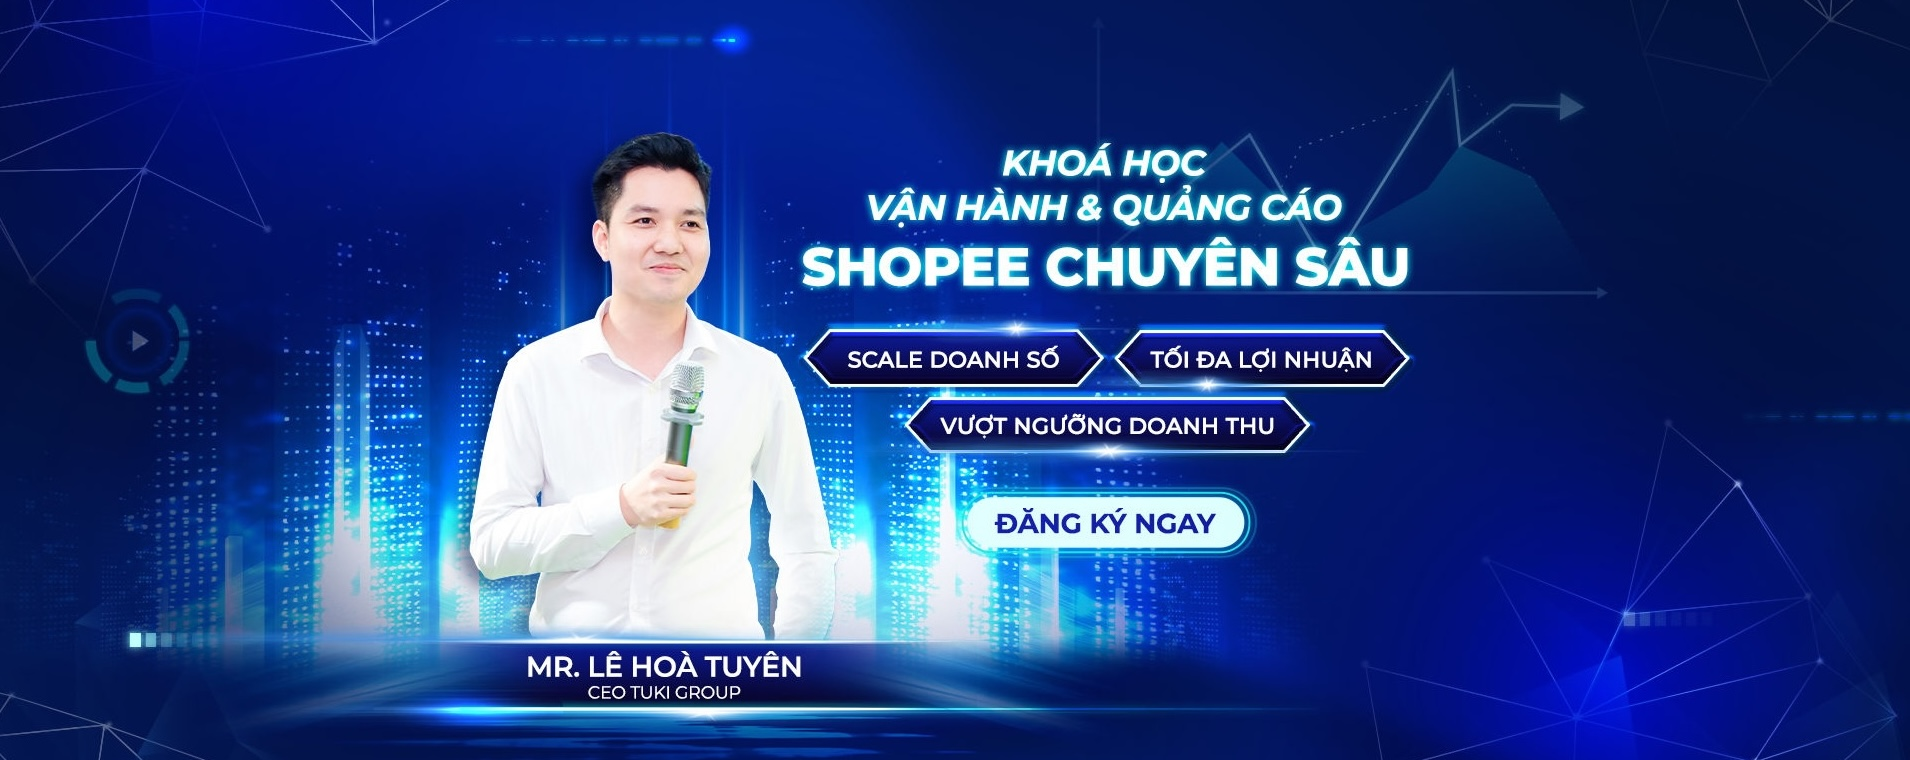
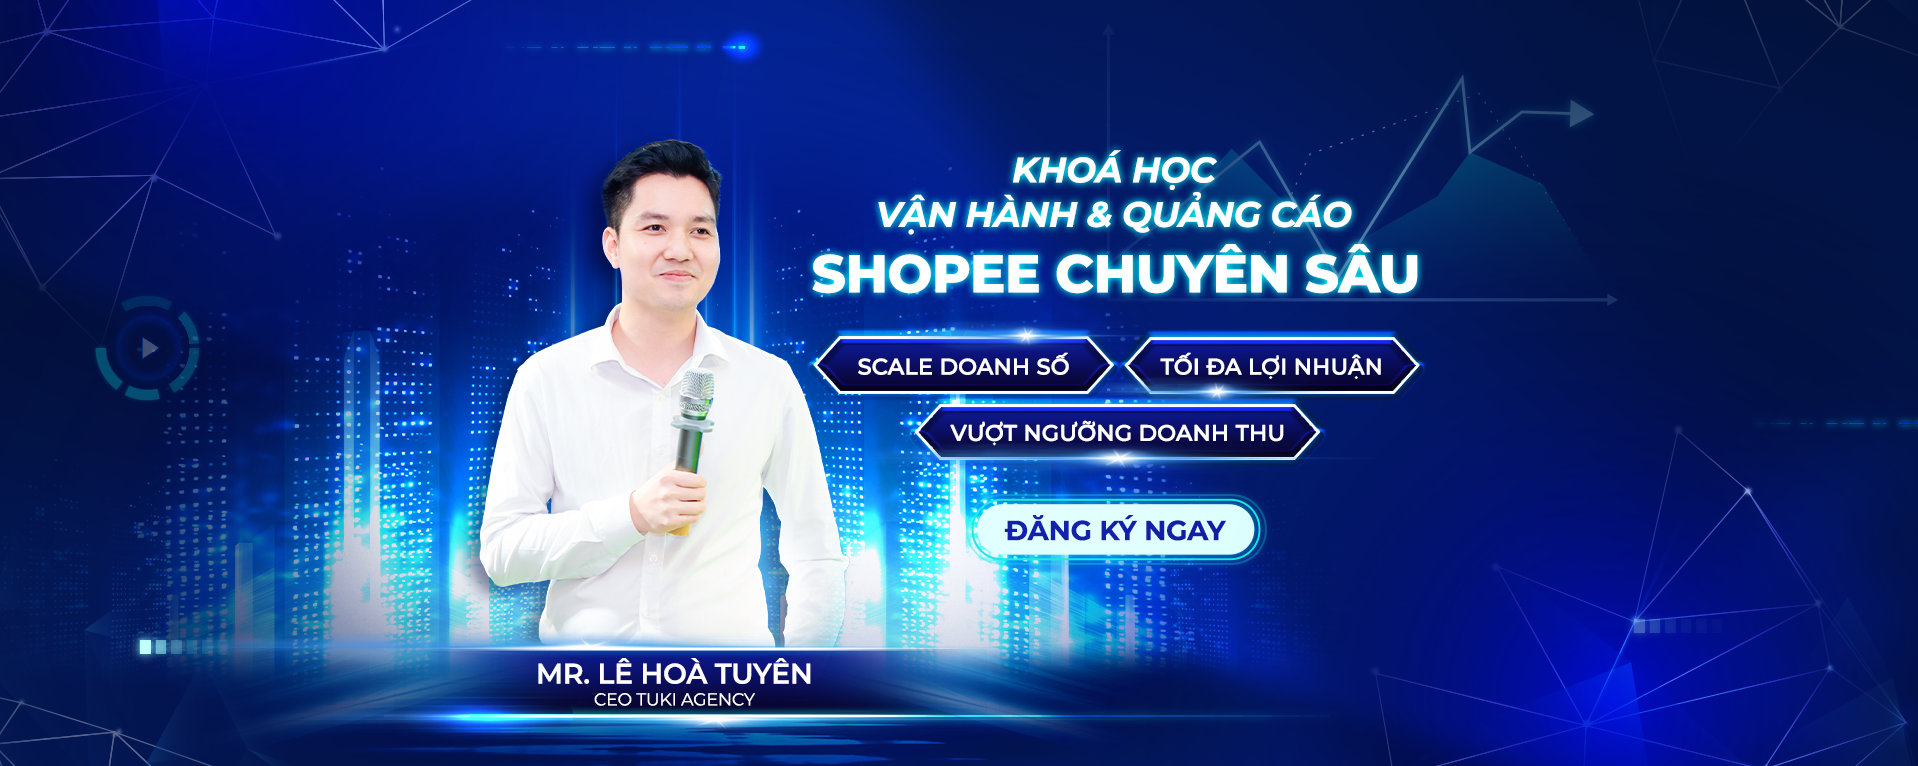
Update Shopee v2 mobile hero layout

diff --git a/landing-page-shopee-chuyen-sau-v2.html b/landing-page-shopee-chuyen-sau-v2.html
@@ -287,7 +287,7 @@
   }
 
   #tuki-tts-landing .tts-hero-banner img {
-    aspect-ratio: 1915 / 899 !important;
+    aspect-ratio: 1918 / 766 !important;
     height: auto !important;
     object-fit: cover !important;
     width: 100% !important;
@@ -1632,9 +1632,14 @@
     }
 
     #tuki-tts-landing .tts-hero-banner img {
-      aspect-ratio: 414 / 896 !important;
+      aspect-ratio: auto !important;
+      height: auto !important;
+      margin: 0 auto !important;
+      max-height: none !important;
       min-height: 0 !important;
+      object-fit: contain !important;
       object-position: center !important;
+      width: auto !important;
     }
 
     #tuki-tts-landing .tts-hero {
@@ -1838,7 +1843,7 @@
 
     #tuki-tts-landing .tts-lesson {
       padding-left: 0 !important;
-      padding-top: 52px !important;
+      padding-top: 72px !important;
     }
 
     #tuki-tts-landing .tts-lesson__node {
@@ -1896,11 +1901,11 @@
 
   <figure class="tts-hero-banner">
     <picture>
-      <source media="(max-width: 767px)" srcset="source/img/shopee-chuyen-sau/khoa-hoc-shopee-chuyen-sau-tuki-group-mobile.jpg">
+      <source media="(max-width: 767px)" srcset="source/img/shopee-chuyen-sau/khoa-hoc-shopee-chuyen-sau-tuki-group-mobile.jpg" width="412" height="525">
       <img
         src="source/img/shopee-chuyen-sau/crop-khoa-hoc-shopee-chuyen-sau-tuki-group-ver-desktop.jpg"
-        width="1915"
-        height="899"
+        width="1918"
+        height="766"
         alt="Banner khóa học Shopee chuyên sâu"
         fetchpriority="high"
         decoding="async"
@@ -2191,12 +2196,12 @@
         <div class="tts-contact-card__copy">
           <span id="tts-contact-title" class="tts-eyebrow tts-contact-card__eyebrow">Thông tin liên hệ</span>
           <img class="tts-contact-card__inline-logo" src="source/img/shopee-chuyen-sau/uni-logo-e1746764771211.png" width="298" height="125" alt="Tuki Uni">
-          <p class="tts-contact-card__brand">Nâng tầm kiến thức, Bứt phá doanh thu</p>
+          <p class="tts-contact-card__brand">Nâng tầm kiến thức - Bứt phá doanh thu</p>
           <ul class="tts-contact-list">
             <li><i class="fas fa-map-marker-alt" aria-hidden="true"></i><span>Địa chỉ tại Hà Nội: Toà nhà Times Tower, số 35 Lê Văn Lương, Thanh Xuân, Hà Nội.</span></li>
             <li><i class="fas fa-phone-alt" aria-hidden="true"></i><span>Hotline: <a href="tel:0382726515">038 272 6515</a></span></li>
             <li><i class="fas fa-envelope" aria-hidden="true"></i><span>Gmail: <a href="mailto:tukiuni.ecom@gmail.com">tukiuni.ecom@gmail.com</a></span></li>
-            <li><i class="fab fa-facebook-f" aria-hidden="true"></i><span>Fanpage chính thức: <a href="https://www.facebook.com/tukigroup.uni" target="_blank" rel="noopener noreferrer">Tuki Group Uni</a></span></li>
+            <li><i class="fab fa-facebook-f" aria-hidden="true"></i><span>Fanpage chính thức: <a href="https://www.facebook.com/tukigroup.uni" target="_blank" rel="noopener noreferrer">Tuki Uni</a></span></li>
           </ul>
         </div>
       </div>
